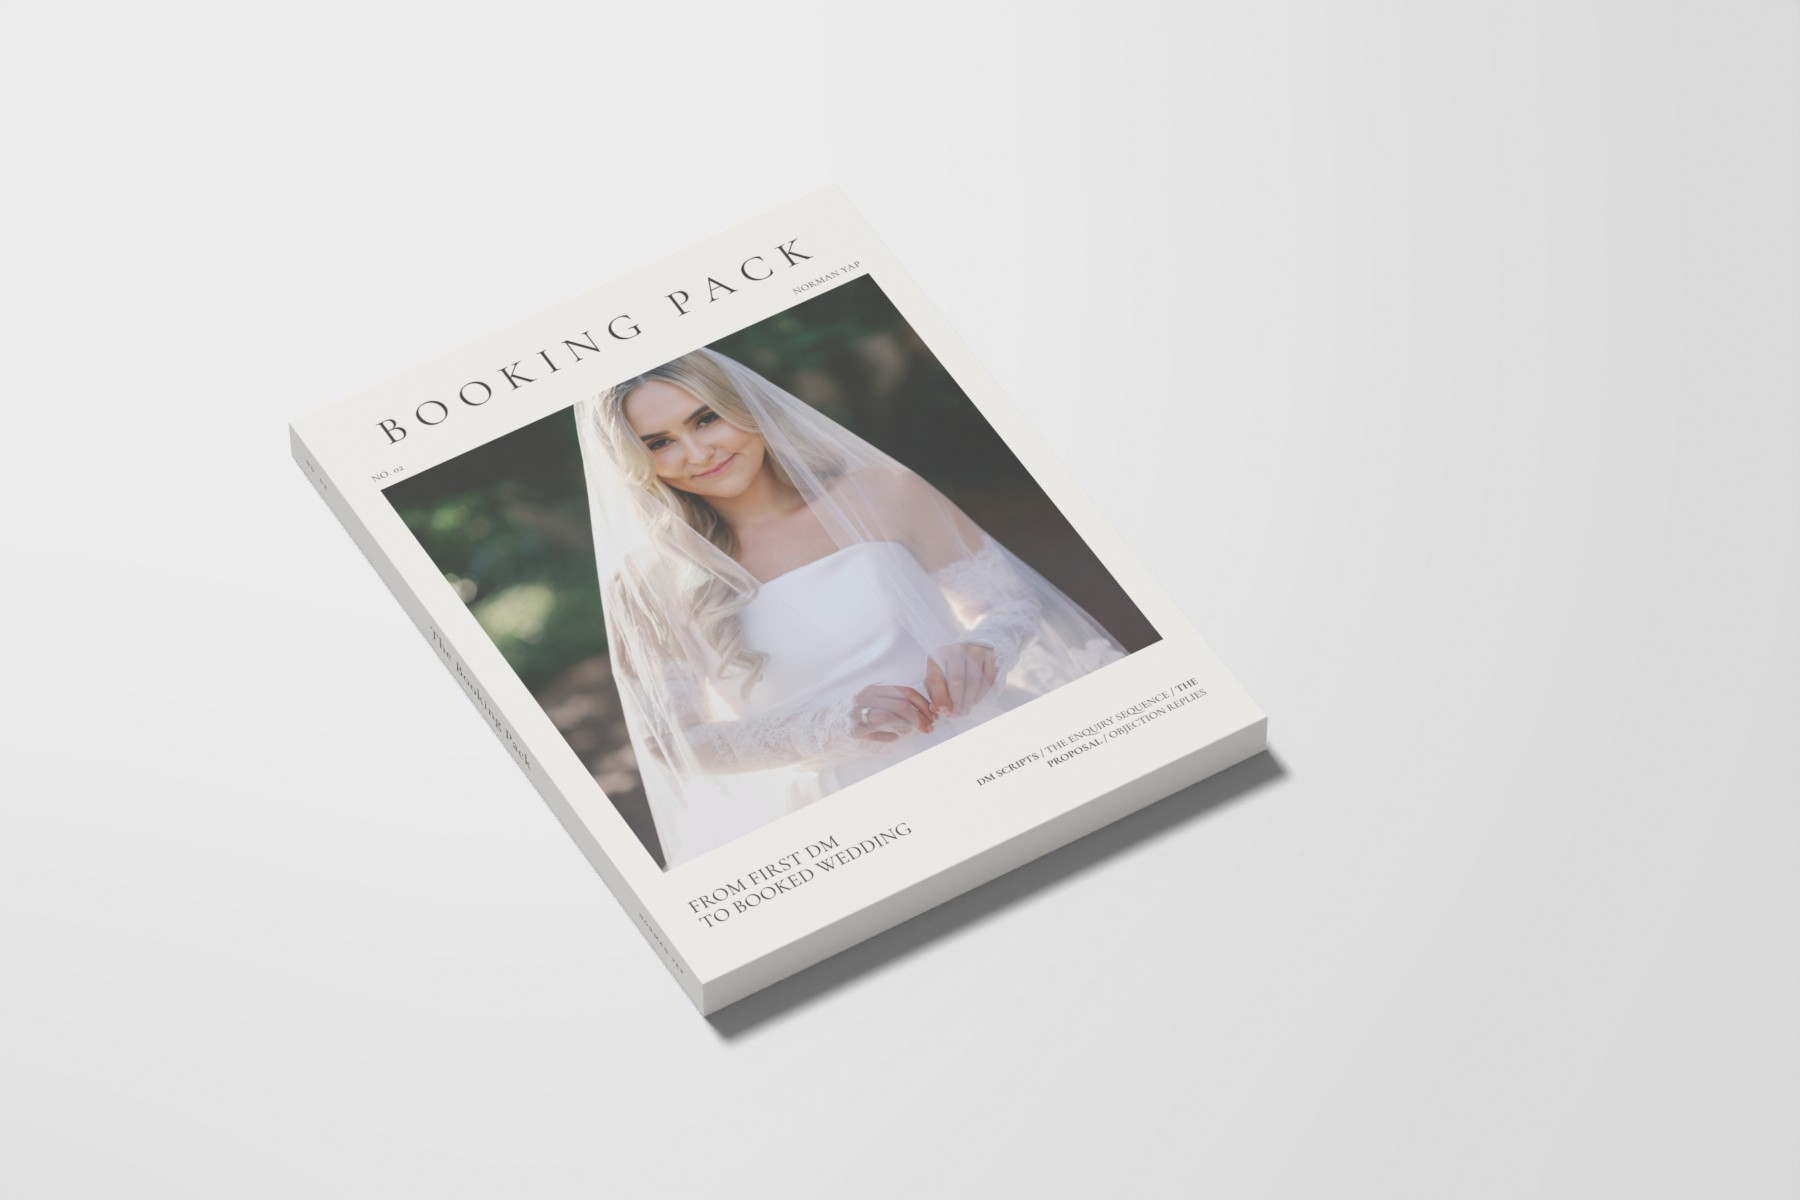
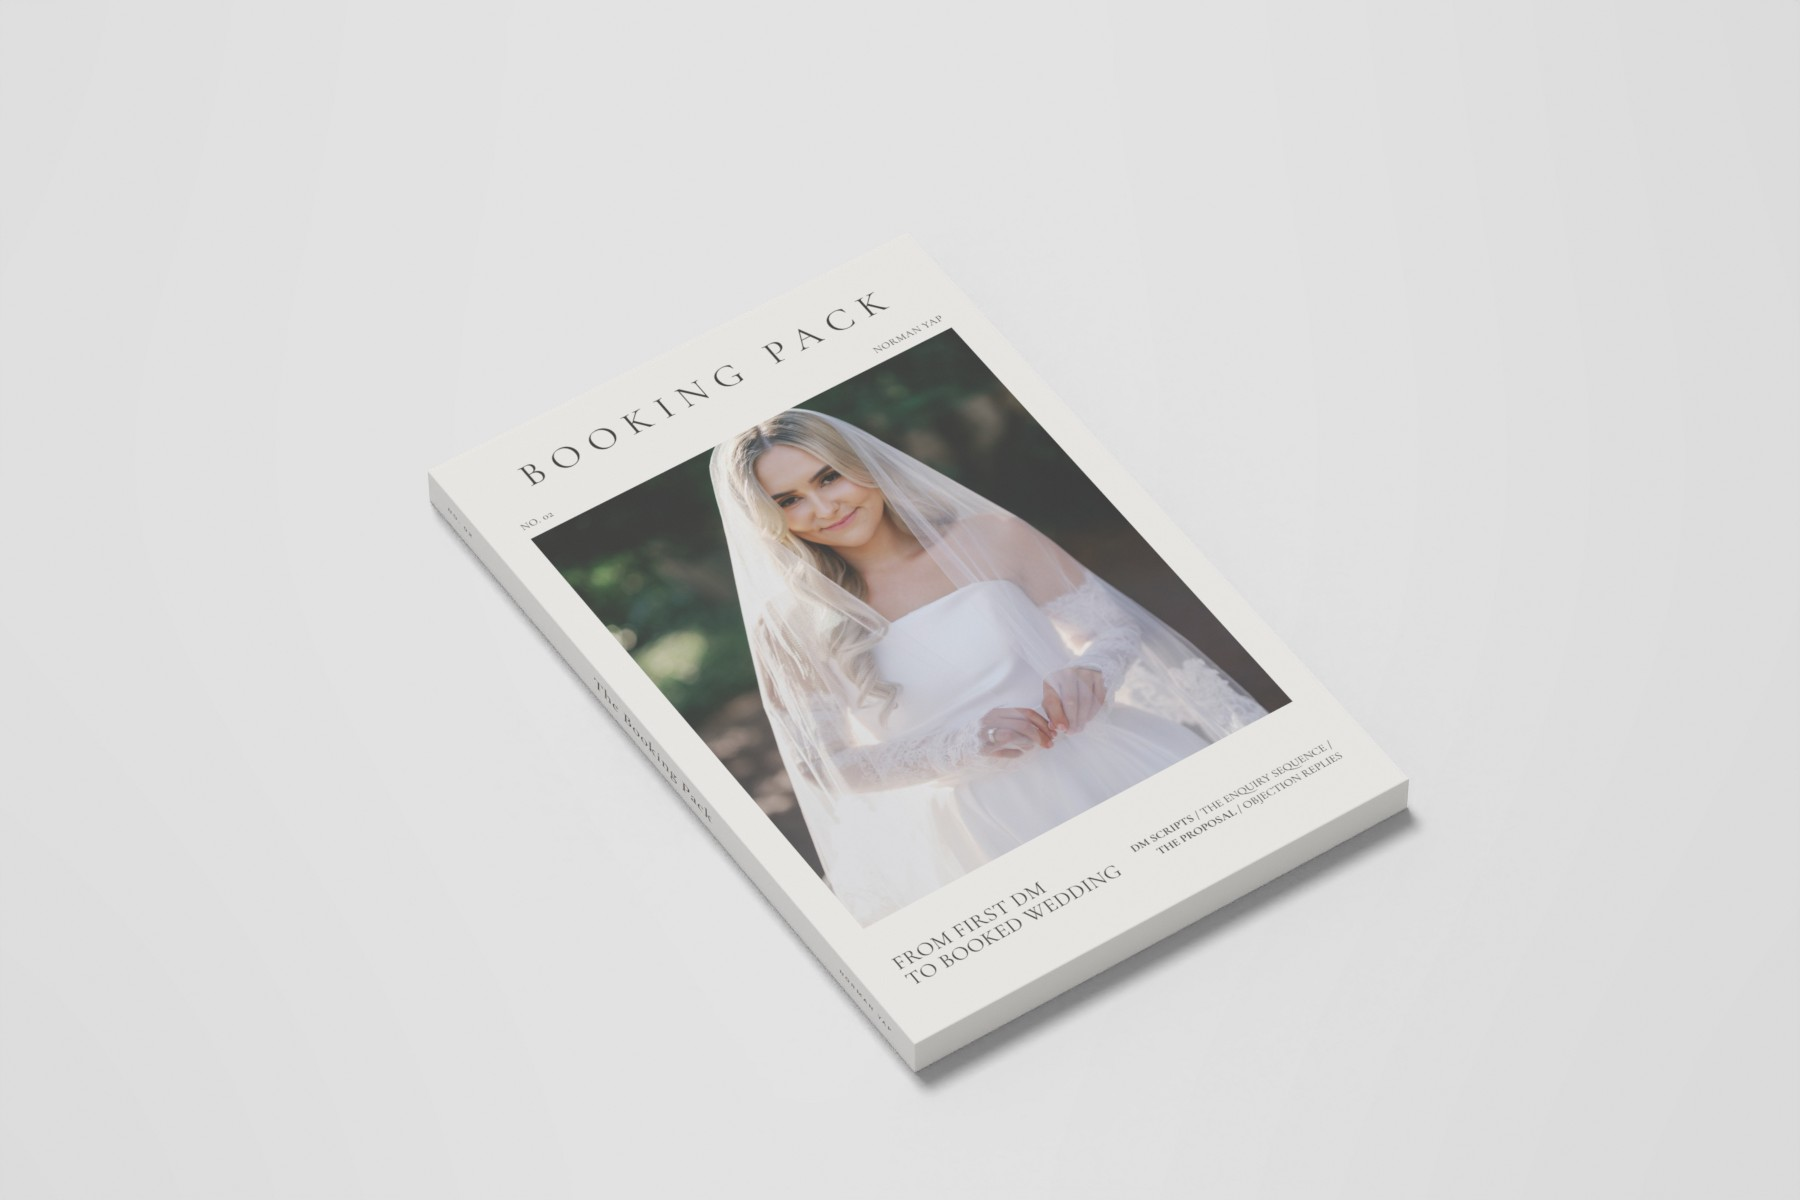
Mockups: final closer-match renders for scenes 01 to 04, log the 3D rebuild
Claude-Session: https://claude.ai/code/session_01GtaESJYyjWQyr6vCh4bNfK

Changed region(s): [[0.1556, 0.2158, 0.8089, 0.925], [0.2489, 0.3083, 0.28, 0.3392]]

diff --git a/mockups/iteration-log.md b/mockups/iteration-log.md
@@ -121,3 +121,22 @@ Reference: US Letter magazine mockup, preview 2, the full screen hero. Straight 
 ## Photo pass
 
 Every cover in r01 to r12 is now a photo cover from `out/covers-photo/` (`covers-photo/cover.html`). Add `?cover=type` to any scene to bring back the typographic covers.
+
+## 3D rebuild (Blender Cycles)
+
+Norm's verdict on the CSS scenes: still artificial, not close enough. All twelve scenes were rebuilt as real 3D geometry in `blender/mock.py` and rendered with Cycles: a sun, sky fill and a shadow catcher, composited over each reference's ground colour. Covers switched to the white magazine cover, because most references use light covers with a framed photograph.
+
+- Round 1. Geometry and framing for all twelve at low resolution. Objects too small, light too hot.
+- Round 2. One exposure dial for every light, reference sizes for each object, spine turned to the correct side on the hardcover.
+- Round 3, side by side with the references at full size:
+  - r01: 2:3 paperback cover (`out/assets/*-cover-pb.png`), new rotation and placement, softer shadow.
+  - r02: narrower pages, deeper gutter curve.
+  - r03: thick hardcover, wide spine, 86 mm lens up close so the edges converge.
+  - r04: folded copies showing the top of the cover, fanned down and right, wider band.
+  - r05: cover lifted 22 mm for the deep soft shadow, darker taupe ground.
+  - r06: magazine centred, 22 leaf clusters, darker wall.
+  - r07: rounded tablet built from a bevelled plane, centred.
+  - r08: tile angle flipped to match the reference lean.
+- Verdicts. Closest: r01 to r05, r07, r08, r09, r12. Close: r10. Close with a limit: r06 (generated marble), r11 (fewer, thicker copies than the reference).
+
+Renders are 1800 by 1200 at 48 samples with denoising, about 85 seconds each on four cores. `ref-scenes/` keeps the earlier CSS versions.
